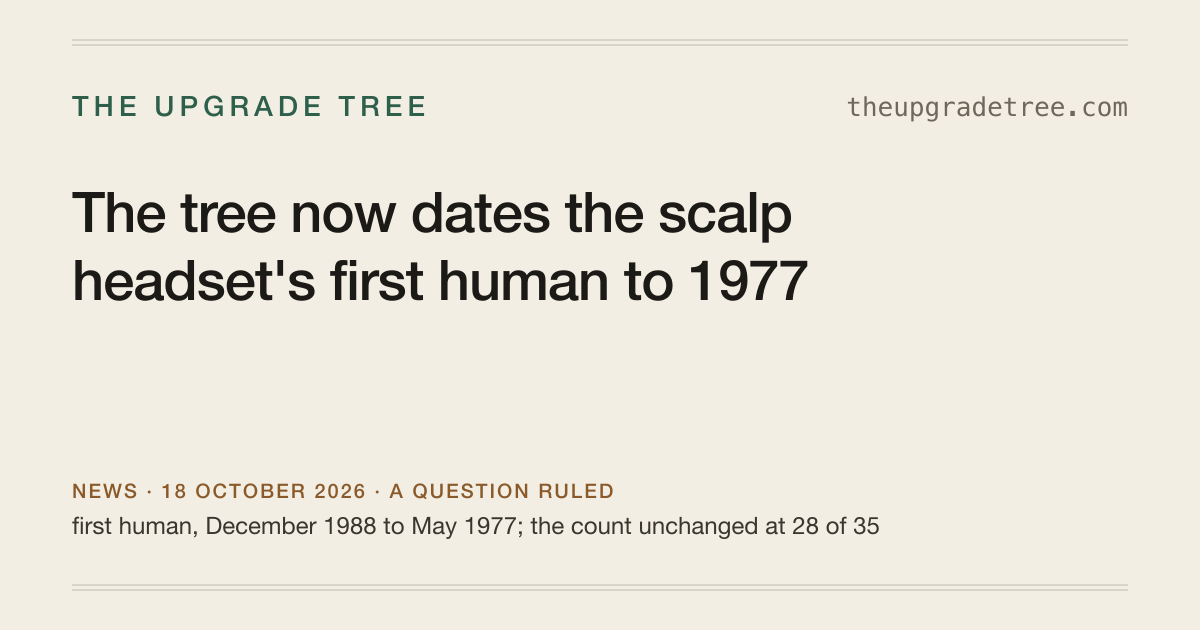
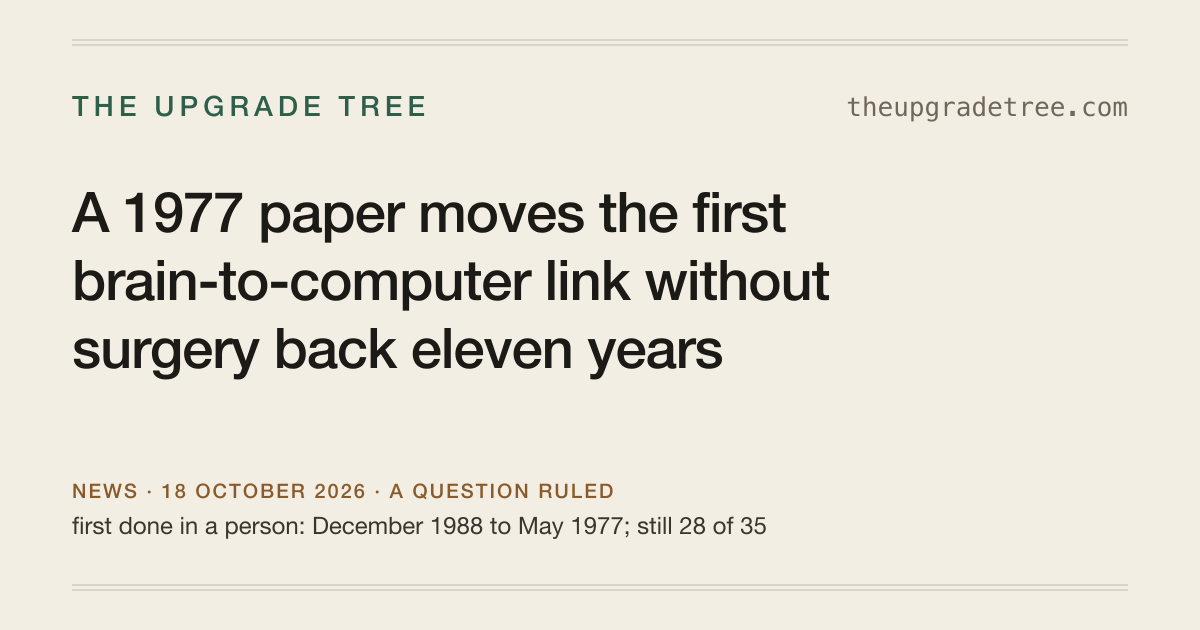
2026-10-19: the two news posts rewritten as short stories for a reader new to the site (tracker pattern rule 4.19, ruled by John 2026-10-19). The Vidal post keeps its address and every fact, takes a plainer title and a redrawn card, and ends with a dated line linking its first version; the held "Sta

Changed region(s): [[0.0617, 0.3016, 0.7092, 0.4825], [0.0617, 0.5127, 0.6167, 0.6032], [0.0925, 0.8143, 0.74, 0.8746]]

diff --git a/site/src/content/news/2026-10-18-start-here.md b/site/src/content/news/2026-10-18-start-here.md
@@ -1,0 +1,51 @@
+---
+title: "Start here: of 35 ways to change a human being on purpose, 28 have been tried in a person"
+date: 2026-10-18
+kind: start-here
+summary: Some people expect humans to improve themselves with devices, drugs and surgery, and in the end to merge with their machines. This site counts what has actually been done, from the public record, and this post explains where the count stood on 18 October 2026 and how to follow it.
+sources:
+  - label: The headline file, the count as it stands
+    url: https://theupgradetree.com/data/headline.json
+  - label: The method
+    url: https://theupgradetree.com/method/
+---
+
+One idea about the future says that as machines get smarter, people keep up by joining with them: sharper senses, better memory, a longer life, and in the end a direct line from the brain to a computer. Some of that is already happening, and some of it is only talk. I wanted to know which was which, and it turns out the answer can be written as a list.
+
+The Upgrade Tree is that list, kept in the open. It asks one question: how much of a human being can we change on purpose today? Not in a story, and not someday, but with a device, a drug or a procedure that at least one person has actually had, counted from the public record. Each change is an upgrade on the tree, with a plain statement of what would count as a person having it and the kind of record that settles it, such as a regulator's approval or a peer-reviewed paper (one checked by other scientists before it was published). The site gives no odds on what will happen. It says what has happened, when, and where the record is, so that anyone can check an entry or argue with it.
+
+## Where the Count Stands
+
+As of 18 October 2026, [28 of the 35 upgrades](/data/headline.json) the site follows had been tried in at least one living person. That is the headline number, because a first person is the line between an idea and something that has happened to someone. It does not mean a change is approved or that you could get it: the later stages record that.
+
+Each upgrade sits on one of five stages, and the counts on that day were these ([the branches](/branches/)). Four were still ideas, not yet shown to work in any living animal. Three had been shown in animals, in a peer-reviewed report. Eighteen were at the stage the site calls first human, meaning at least one person has had the upgrade, on the public record. Seven were in clinical use, approved by a regulator somewhere or offered routinely in a named clinic. Three were in wide use, available to the public in at least one country and taken up by many people. The headline adds up the last three.
+
+The 35 upgrades hang on [seven branches](/branches/): the senses; movement and the body; memory and thinking; mood and drive; lifespan and repair; inheritance, meaning what can be changed in the genes passed to a child; and the link to machines. The link to machines has seven upgrades, more than any other branch, and the site treats a direct link between a brain and a computer as the change that would matter most.
+
+That branch carries a second number: how fast a brain can send information to a machine. The fastest peer-reviewed rate for turning a person's attempted speech into text is [78 words a minute](https://doi.org/10.1038/s41586-023-06443-4), from the [University of California, San Francisco](https://www.ucsf.edu/), published on 23 August 2023. That is about half the speed of talking, with about one word in four wrong. A newer result [from the University of California, Davis](https://doi.org/10.1056/NEJMoa2314132), published on 14 August 2024, is slower at 31.6 words a minute but gets only 2.5 words in a hundred wrong. For moving a cursor, where speed is measured in bits a second (how much information gets through), the best peer-reviewed rate is [4.16 bits a second](https://doi.org/10.7554/eLife.18554), from [Stanford](https://www.stanford.edu/) in 2017. [Neuralink](https://neuralink.com/), the brain-implant company, reported [8.0 bits a second](https://neuralink.com/updates/prime-study-progress-update-user-experience/) in May 2024 in its own update, and the chart marks it as not peer reviewed.
+
+Alongside the count is [a log of 27 claims](/claims/) made between 2000 and 2026 about people merging with machines, each with the recording or text it can be checked against, so that what was said sits beside what was done.
+
+## How to Follow It
+
+Every Sunday evening, Pacific time, the site checks the upgrades against the past week's news and writes down what it found, whether or not anything moved ([the Reading page](https://theupgradetree.com/reading/)). The few upgrades that are already in wide use, with no stage left to climb, are checked once a month. A check may move an upgrade up one stage, and only on a record of the kind that upgrade names, never on press coverage, a company's claim or a demonstration video. Anything else is left for me to rule on.
+
+[The Story](https://theupgradetree.com/story/) lists every change with its date, [the Branches](https://theupgradetree.com/branches/) lead to every upgrade and its records, the speed chart is on [the link-to-machines branch](https://theupgradetree.com/branches/link/#bandwidth), and [the Method](https://theupgradetree.com/method/) explains how the count is worked out and who does what. Think a number here is wrong? [Here's how to tell me, and what happens next](https://theupgradetree.com/disagree/). Every new post goes out on [the news feed](https://theupgradetree.com/news/feed.xml), and a quiet week gets no post.
+
+## The Most Interesting News So Far
+
+The first weekly check, on 16 October 2026, caught a mistake made that same day. The entry for gene therapy for hearing said no regulator had approved one. In fact the United States Food and Drug Administration had given [accelerated approval](https://www.fda.gov/news-events/press-announcements/fda-approves-first-ever-gene-therapy-treatment-genetic-hearing-loss-under-national-priority-voucher) on 23 April 2026 to Otarmeni, from the drug company [Regeneron](https://en.wikipedia.org/wiki/Regeneron_Pharmaceuticals), the first gene therapy for a hearing loss caused by a faulty gene. The upgrade moved from first human to clinical use. The headline stayed at 28, because the upgrade had already been counted.
+
+The oldest record for the simplest link between a brain and a machine moved back eleven years. That link is [a headset worn on the scalp that controls a device without surgery](/branches/link/link-scalp-headset-controls-a-device-without-surgery/), and its first human had been dated to [a speller published in December 1988](https://doi.org/10.1016/0013-4694(88)90149-6). On 18 October 2026 [a paper published in May 1977](https://doi.org/10.1109/PROC.1977.10542) by [Jacques Vidal](https://en.wikipedia.org/wiki/Brain%E2%80%93computer_interface#History) of the [University of California, Los Angeles](https://en.wikipedia.org/wiki/University_of_California,_Los_Angeles) was read in full. Its volunteers, with electrodes on the scalp and no surgery, steered a symbol through a simple maze on a screen, and I ruled the same day that it counts. No count changed. [The news post on that ruling](/news/2026-10-18-the-scalp-headset-first-human-moves-to-1977/) tells the story.
+
+The claims log has had corrections of its own. The entry for the historian [Yuval Noah Harari](https://en.wikipedia.org/wiki/Yuval_Noah_Harari) said the word "hackable" never appears in his 2020 talk at [Davos](https://en.wikipedia.org/wiki/World_Economic_Forum), the yearly meeting of the World Economic Forum. Listening again found "We are now hackable animals" about twelve minutes in, where the automatic captions had heard "packable animals" ([the Story](/story/)). And [Neuralink's own home page](https://neuralink.com/), read on 16 October 2026, does not mention artificial intelligence, symbiosis or merging anywhere ([the Claims](/claims/)).
+
+## What to Watch For
+
+The nearest result that could raise the count to 29 is in resetting cells to turn back ageing. [Life Biosciences](https://www.lifebiosciences.com/) dosed the first participant in its trial for two diseases of the optic nerve on 9 June 2026, and no result has been reported. The upgrade reaches first human only when a measured sign of age in a person moves back toward youth, so a dose alone does not move it ([the upgrade's page](/branches/lifespan/lifespan-partially-resetting-cells-reverses-ageing-in-an-animal/)).
+
+For a brain link faster than speech, what would count is a rate above 40 bits a second, kept up for at least ten minutes, in a peer-reviewed report on a person ([the link-to-machines branch](/branches/link/)). [Paradromics](https://www.paradromics.com/), another brain-implant company, claims more than 200 bits a second in animals and in a paper not yet peer reviewed, and reported its first permanent implant in a person in June 2026, with no rate in a person published yet.
+
+Upgrades already counted can still climb toward clinical use. For organs from gene-edited pigs, trials cleared by the Food and Drug Administration are enrolling patients, and the Boston hospital system [Mass General Brigham](https://www.massgeneralbrigham.org/) has said a third transplant is planned later in 2026 ([the reading of 16 October](/reading/)). For a brain implant to treat severe depression, the main trial run by the medical device maker [Abbott](https://www.abbott.com/), begun in September 2024, has not yet reported ([the same reading](/reading/)).
+
+When any of those moves, it will be here, told as it happened.

diff --git a/site/src/content/news/2026-10-18-the-scalp-headset-first-human-moves-to-1977.md b/site/src/content/news/2026-10-18-the-scalp-headset-first-human-moves-to-1977.md
@@ -1,11 +1,11 @@
 ---
-title: The tree now dates the scalp headset's first human to 1977
+title: A 1977 paper moves the first brain-to-computer link without surgery back eleven years
 date: 2026-10-18
 kind: flagged-item-ruled
-summary: A paper published in May 1977 shows volunteers steering a symbol through a maze on a screen with electrodes on the scalp and no surgery. The site read it in full and John ruled on 18 October 2026 that it meets the upgrade's test, so the headset's first human moves back eleven years, from December 1988 to May 1977. No stage and no count changes.
+summary: The earliest record the site had of a person working a computer through electrodes on the scalp, with no surgery, was a speller from 1988. A paper published in May 1977 shows volunteers doing it eleven years earlier, and the tree now dates that first step to 1977.
 records: [link-scalp-headset-controls-a-device-without-surgery]
-before: "first human, December 1988"
-after: "May 1977; the count unchanged at 28 of 35"
+before: "first done in a person: December 1988"
+after: "May 1977; still 28 of 35"
 sources:
   - label: Vidal, Real-time detection of brain events in EEG, Proceedings of the IEEE 65(5), pages 633 to 641, May 1977
     url: https://doi.org/10.1109/PROC.1977.10542
@@ -15,24 +15,20 @@ sources:
     url: https://theupgradetree.com/branches/link/link-scalp-headset-controls-a-device-without-surgery/
 ---
 
-## What happened
+Of all the ways to connect a brain to a machine, the plainest needs no surgeon. Electrodes resting on the scalp pick up the brain's faint electrical hum through the skull, and a computer turns it into a choice: a letter, a move in a game, a toy that rises or falls. Headsets that do this have been sold to the public since 2007, as toys, meditation aids and game controllers ([the headset's page on the tree](/branches/link/link-scalp-headset-controls-a-device-without-surgery/)). Of the brain-to-machine links on the Upgrade Tree, it is the only one anyone can buy, and by far the weakest.
 
-In May 1977 [Jacques Vidal](https://en.wikipedia.org/wiki/Brain%E2%80%93computer_interface#History), at the [University of California, Los Angeles](https://en.wikipedia.org/wiki/University_of_California,_Los_Angeles), published [a paper in the Proceedings of the IEEE](https://doi.org/10.1109/PROC.1977.10542) in which volunteers with electrodes on the scalp, and no surgery, moved a symbol through a simple maze on a screen in real time. Each chose a direction by looking at one of four dots around a flashing checkerboard, and the computer sorted the brain's response to each flash into one of the four directions.
+For every change to a person that the site follows, it keeps the date the change was first tried in a living person, because that is the moment an idea becomes something that happened to someone. Until 18 October 2026, the first people on record for the headset were the volunteers in [a University of Illinois study published in December 1988](https://doi.org/10.1016/0013-4694(88)90149-6), who spelled out words by paying attention to letters flashing on a screen.
 
-The site had known of the paper since its [checks of 17 October 2026](/story/#2026-10-17), but only its abstract could be read, so the question of whether it met the test was put to John and left open. On 18 October 2026 John bought the paper, it was read page by page, and he ruled the same day that it counts ([the upgrade's page](/branches/link/link-scalp-headset-controls-a-device-without-surgery/)).
+An older paper had been sitting just out of sight. In May 1977 [Jacques Vidal](https://en.wikipedia.org/wiki/Brain%E2%80%93computer_interface#History), at the [University of California, Los Angeles](https://en.wikipedia.org/wiki/University_of_California,_Los_Angeles), published [a paper in the Proceedings of the IEEE](https://doi.org/10.1109/PROC.1977.10542), an engineering journal, describing volunteers with electrodes on the scalp who steered a symbol through a simple maze on a screen as it happened. The site's first weekly check of the news, on 16 October 2026, found the paper described in other people's accounts ([that week's check](/reading/)). The next day only its short summary could be read, because the full text sits behind a paywall, so whether it counted was left as a question for me ([the site's record of changes](/story/#2026-10-17)).
 
-## What it changes here
+On 18 October 2026 I bought the paper, and it was read page by page. To choose a direction, each volunteer looked at one of four dots placed around a flashing checkerboard: left, right, up or down. The computer read the brain's response to each flash and decided which of the four directions was meant. A computer guessing at random would be right one time in four. The paper reports that the computer was right more than 90 per cent of the time with average volunteers ([the paper](https://doi.org/10.1109/PROC.1977.10542), page 638).
 
-| what | before | after |
-|---|---|---|
-| [A headset worn on the scalp controls a device without surgery](/branches/link/link-scalp-headset-controls-a-device-without-surgery/), its first human | December 1988, the Illinois speller | May 1977, Vidal's maze |
-| Its stage today | in wide use, since 2014 | in wide use, unchanged |
-| Upgrades past first human | 28 of 35 | 28 of 35, unchanged |
+That left one real question. The volunteers chose by where they looked, so was the computer reading the brain or the eyes? What would count for this change, as the site wrote it down before the paper was read, is a person with no surgery deliberately controlling a device with signals read from the scalp, better than guessing would manage. Vidal's volunteers did that, so I ruled the same day that the paper counts ([the ruling, on the headset's page](/branches/link/link-scalp-headset-controls-a-device-without-surgery/)). The paper gives no dates for the sessions themselves, so the tree dates the headset's first use in a person to the month the paper came out, May 1977, the way it dates every study.
 
-## Why
+The change moves one date back eleven years, and nothing else. The site's main number counts how many of the 35 changes it follows at least one person has had. The headset was already among them, so the number stays at 28 ([the branches](/branches/)), and the headset stays at the top stage, in wide use. The 1988 study keeps a first of its own: it is still the first device for spelling words controlled by the brain, and it stays in the headset's notes.
 
-The upgrade's test asks for a person, with no surgery, using signals read from the scalp to control a device. Vidal's volunteers did that: the paper reports the computer picking the right one of four directions more than 90 per cent of the time with average subjects ([the paper](https://doi.org/10.1109/PROC.1977.10542), page 638). A study on this site is dated by its publication, and the paper dates none of its sessions, so the rung is dated to the issue it appeared in, May 1977. The [1988 Illinois report](https://doi.org/10.1016/0013-4694(88)90149-6), in which volunteers spelled words by attending to flashing letters, was the first-human record until now and stays in the upgrade's notes.
+The earlier date does not mean anyone used a headset outside a laboratory in 1977. The paper gives no account of a volunteer finding the way out of the maze, and it never tests whether the response needed the eyes to move toward a dot, rather than coming from the brain alone. Both cautions are written on [the headset's page](/branches/link/link-scalp-headset-controls-a-device-without-surgery/).
 
-## What it does not mean
+What the earlier date does show is how long the road was. About thirty years passed between volunteers steering a symbol in a Los Angeles laboratory in 1977 and a headset on a shop shelf in 2007 ([the headset's page](/branches/link/link-scalp-headset-controls-a-device-without-surgery/)).
 
-It does not mean anyone wore a headset to control a device outside a laboratory in 1977. The paper gives no account of a volunteer getting out of the maze, and it does not test whether the choice depended on the eyes moving toward the dot rather than on the brain's response alone ([the upgrade's page](/branches/link/link-scalp-headset-controls-a-device-without-surgery/) carries both cautions). And the count of upgrades past first human does not move, because the headset was already past that rung ([the branches](/branches/)).
+*Rewritten on 19 October 2026 as a plainer story; no fact or figure changed ([the first version](https://github.com/jfredson/upgrade-tree/blob/d252fcb/site/src/content/news/2026-10-18-the-scalp-headset-first-human-moves-to-1977.md)).*

diff --git a/CHANGELOG.md b/CHANGELOG.md
@@ -2,6 +2,10 @@
 
 Every change to the record, the stage ladder or the site, with absolute dates. Newest first. The Story page on the site renders this file.
 
+## 2026-10-19
+
+- **The two news posts are rewritten as short stories for a reader new to the site, as John ruled for every tracker on 2026-10-19.** The post on Vidal's 1977 paper keeps its address and every fact, gains a plainer title ("A 1977 paper moves the first brain-to-computer link without surgery back eleven years") and a redrawn card, and ends with a dated line linking its first version. The opening "Start here" post, held for John's read since 2026-10-18, is rewritten the same way and is still not published. No record, stage or count changed.
+
 ## 2026-10-18
 
 - **Five changes to the weekly reading, from the audit of its first cloud run, as John ruled on 2026-10-18 ("yes to all five").** The audit is `docs/readings/audit-2026-10-18.md`. (1) The documents now say two upgrades sit at the top of the ladder and a weekly reading is 33, and the export refuses a newest reading that reads any other set than its scope asks for. (2) `noted` means dated inside the week or new to the record; an older record the entry already holds is `quiet`, with the fact in `found`. (3) A reading opens every record it cites for a non-quiet item, cites the maker's, regulator's or journal's own page, lists the pages in a new `opened` field, and runs one more search limited to the register's site, whose sites go in a new `register` field; the export holds records from the reading of 2026-10-19 to both. (4) The export script stamps the site's data and the headline file with the Pacific date, not the machine's universal-time date (the first cloud run had stamped 2026-10-19 on a reading of 2026-10-18); `scripts/test_reading_rules.py` tests this and the rules above, and the deploy runs it. (5) The reading page's key now says `quiet` means nothing turned up in the search results, not that nothing happened. No record, stage or count changed.
